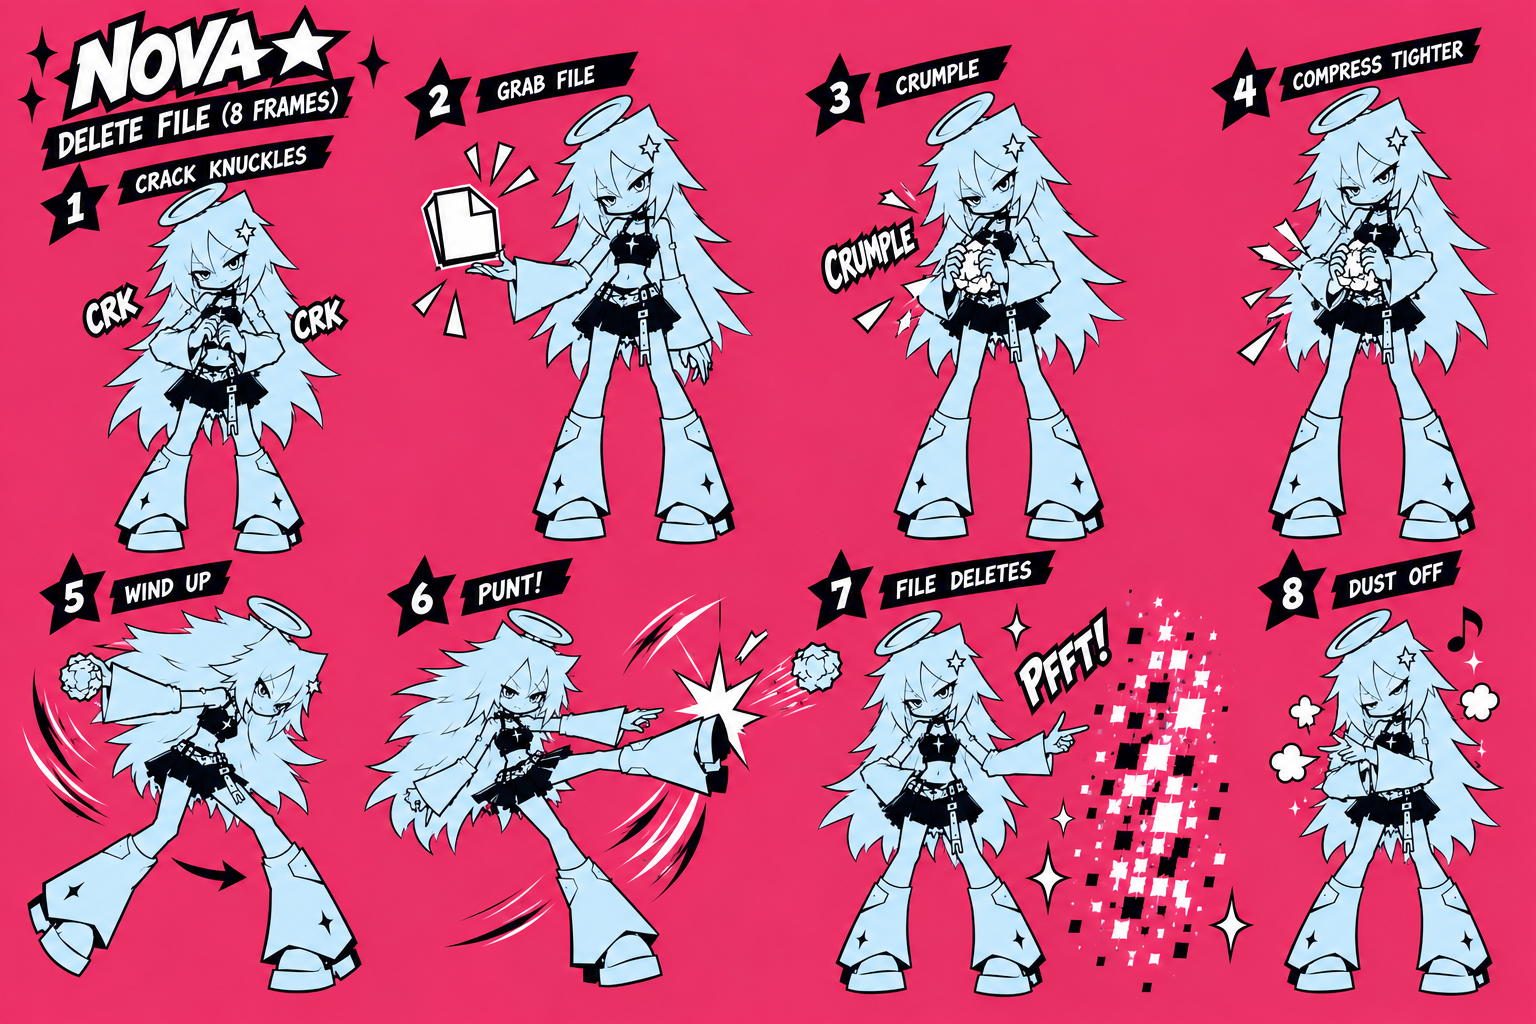
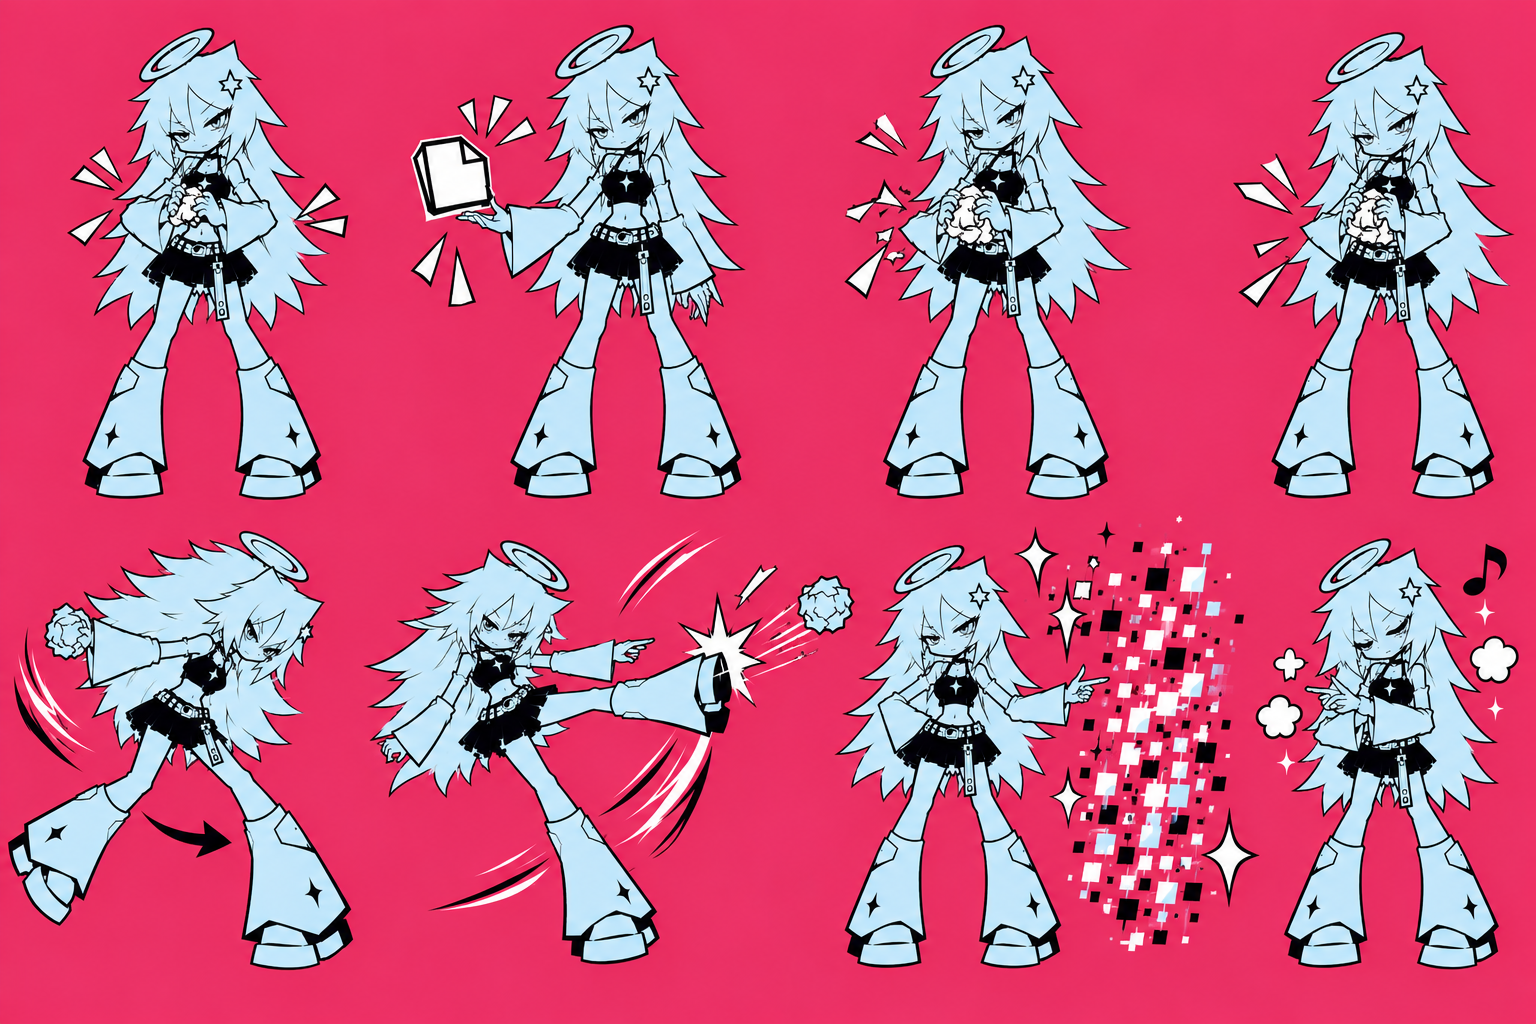
Use the artist's fixed delete-file sheet for all 8 frames
The redrawn sheet has every frame at the same size and no labels, so the
earlier fixes for it (badge paint-outs, the separate crack-knuckles
redraw) are gone. The burst is still cut alone and laid over frame 7.

Claude-Session: https://claude.ai/code/session_012ykRabq4tZUiRWfhMVtcWH

diff --git a/nova/src/frames/packs.js b/nova/src/frames/packs.js
@@ -1049,59 +1049,59 @@ window.NovaFramePacks = {
   "frames": [
    {
     "src": "frames/delete/01.png",
-    "x": 6.151,
-    "y": 4.0,
-    "w": 38.042,
-    "h": 74.391
+    "x": 2.901,
+    "y": 4.155,
+    "w": 44.524,
+    "h": 74.31
    },
    {
     "src": "frames/delete/02.png",
-    "x": -8.817,
-    "y": 4.483,
-    "w": 56.143,
-    "h": 73.517
+    "x": -7.027,
+    "y": 3.69,
+    "w": 52.746,
+    "h": 74.621
    },
    {
     "src": "frames/delete/03.png",
-    "x": -0.774,
-    "y": 4.0,
-    "w": 50.191,
-    "h": 73.517
+    "x": 2.746,
+    "y": 3.845,
+    "w": 45.61,
+    "h": 74.621
    },
    {
     "src": "frames/delete/04.png",
-    "x": 3.891,
-    "y": 3.196,
-    "w": 43.113,
-    "h": 74.483
+    "x": 2.126,
+    "y": 4.931,
+    "w": 44.524,
+    "h": 73.379
    },
    {
     "src": "frames/delete/05.png",
-    "x": -6.471,
-    "y": 1.35,
-    "w": 65.483,
-    "h": 76.65
+    "x": -2.239,
+    "y": 2.199,
+    "w": 60.195,
+    "h": 76.315
    },
    {
     "src": "frames/delete/06.png",
-    "x": -15.934,
-    "y": 1.35,
-    "w": 91.79,
-    "h": 75.514
+    "x": -12.528,
+    "y": 2.542,
+    "w": 85.233,
+    "h": 75.115
    },
    {
     "src": "frames/delete/07.png",
-    "x": -0.225,
-    "y": 0.215,
-    "w": 83.652,
-    "h": 78.353
+    "x": 3.249,
+    "y": -0.373,
+    "w": 73.743,
+    "h": 78.716
    },
    {
     "src": "frames/delete/08.png",
-    "x": 1.289,
-    "y": 3.432,
-    "w": 45.611,
-    "h": 74.946
+    "x": 1.877,
+    "y": 3.4,
+    "w": 46.304,
+    "h": 75.115
    }
   ],
   "durations": [

diff --git a/nova/art/frames/make_packs.py b/nova/art/frames/make_packs.py
@@ -21,17 +21,11 @@ SIZE = {'walk': 1.0, 'run': 1.0, 'jump': 1.05, 'bored': 1.4, 'drag': 1.45, 'slee
         # sitting: as big as in her idle sheet, by the size of her crop top
         'sit': ('like', 'idle'),
         'paint': ('like', 'idle'), 'clean': ('like', 'idle'), 'carry': 'stand', 'search': ('like', 'idle'),
-        'delete0': ('stand', [0]), 'delete1': ('stand', [1, 2, 3]), 'delete2': ('stand', [2, 3]),   # (by her standing frames)
+        'delete1': ('stand', [0, 1, 2, 3]), 'delete2': ('stand', [2, 3]),   # (by her standing frames)
         'shrug': 'stand', 'angry': 'stand', 'shy': 'stand', 'dance': 'stand', 'dizzy': ('like', 'idle'), 'cheer': ('like', 'idle')}
-ERASE = {'delete0': [[(0, 0), (874, 0), (874, 1024), (0, 1024)], [(1178, 0), (1536, 0), (1536, 1024), (1178, 1024)]],   # (the corrected frame 1 only)
-         'drag': [[(20, 149), (480, 77), (480, 122), (20, 194)]],   # (its title badge touches a frame)
-         # (badges close to her halo, painted out along their bottom edge)
-         'delete1': [[(0, 0), (400, 0), (400, 132), (0, 160)], [(28, 158), (112, 158), (112, 242), (28, 242)],
-                     [(100, 165), (322, 128), (322, 165), (217, 177), (110, 207)]],
-         'delete2': [[(798, 546), (886, 546), (886, 632), (798, 632)], [(878, 560), (1068, 543), (1068, 576), (927, 601), (878, 611)],
-                     [(1250, 548), (1326, 548), (1326, 633), (1250, 633)], [(1324, 567), (1470, 546), (1462, 591), (1377, 604), (1324, 613)]]}
-FILE = {'delete0': 'crack', 'delete1': 'delete', 'delete2': 'delete'}   # sheets cut from the same picture
-BURST = dict(sheet='delete2', over=2, boxes=[(1085, 588, 1262, 1000)], keep=[])
+ERASE = {'drag': [[(20, 149), (480, 77), (480, 122), (20, 194)]]}   # (its title badge touches a frame)
+FILE = {'delete1': 'delete', 'delete2': 'delete'}   # sheets cut from the same picture
+BURST = dict(sheet='delete2', over=2, boxes=[(1015, 512, 1276, 1000)], keep=[])
 # how to cut each sheet (see sheets.cut_sheet): the rows between header and captions, how she stands
 CUT = {
   'idle':   dict(band=(205, 882), ground='feet', parts=False),            # (its arrows are the artist's notes)
@@ -45,15 +39,9 @@ CUT = {
   'clean': dict(band=(232, 945), ground='feet', parts_above=0.75, logo=(0, 0, 1448, 248), drop=[(73, 245, 137, 309), (418, 245, 482, 309), (788, 245, 852, 309), (1185, 245, 1249, 309)]),
   'carry': dict(band=(250, 966), ground='feet', parts_above=0.75, logo=(0, 0, 690, 252), drop=[(790, 15, 1448, 295), (369, 514, 471, 598), (714, 514, 816, 598), (1064, 514, 1166, 598), (49, 276, 117, 344), (414, 276, 482, 344), (764, 276, 832, 344), (1129, 277, 1197, 345)]),
   'search': dict(band=(310, 930), ground='feet', parts_above=0.55, logo=(0, 0, 1160, 305), drop=[(1235, 35, 1448, 235), (43, 318, 107, 382), (278, 323, 342, 387), (523, 313, 587, 377), (728, 313, 792, 377), (973, 308, 1037, 372), (1198, 303, 1262, 367)]),
-  # delete: two rows drawn at different sizes, cut as two sheets; frame 7 is only the burst, so it's laid over the punt
-  # delete: two rows, each its own cut. Frame 7's burst is drawn apart from her, so it's cut alone and laid over her
-  # frame 1, redrawn: the 'corrected frame 1' beside frame 2 on its sheet
-  'delete0': dict(band=(282, 856), ground='feet', parts_above=0.75, logo=(0, 0, 0, 0),   # (its measuring arrow and dashed lines, around her)
-                  whiteout=[(884, 286, 902, 438), (884, 532, 902, 858), (872, 284, 932, 312), (958, 295, 993, 305), (1010, 284, 1180, 312), (872, 849, 1180, 860)]),
-  'delete1': dict(band=(0, 548), ground='feet', parts_above=0.75, logo=(0, 0, 0, 0),
-                  drop=[(402, 55, 474, 142), (473, 49, 640, 116), (803, 51, 873, 139), (873, 43, 1014, 111), (1209, 45, 1279, 133), (1277, 25, 1484, 104)]),
-  'delete2': dict(band=(552, 1000), ground='feet', parts_above=0.75, logo=(0, 0, 0, 0),
-                  drop=[(30, 545, 292, 640), (385, 548, 578, 642), (770, 694, 826, 726), (1085, 588, 1262, 1000)]),
+  # delete: two rows of 4; frame 7's burst is drawn apart from her, so it's cut alone and laid over her
+  'delete1': dict(band=(0, 507), ground='feet', parts_above=0.75, logo=(0, 0, 0, 0)),
+  'delete2': dict(band=(510, 1024), ground='feet', parts_above=0.75, logo=(0, 0, 0, 0), drop=[(1015, 512, 1276, 1000)]),
   # reactions: their titles, notes, number circles and loop arrows are left out with drop boxes
   'shrug': {'band': (270, 925), 'ground': 'feet', 'parts_above': 0.55, 'logo': (0, 0, 820, 275), 'drop': [(800, 20, 1110, 255), (1170, 40, 1448, 235), (48, 273, 116, 341), (401, 266, 469, 334), (761, 266, 829, 334), (1106, 266, 1174, 334)]},
   'angry': {'band': (195, 897), 'ground': 'feet', 'logo': (0, 0, 640, 235), 'drop': [(600, 40, 1448, 205)]},
@@ -97,7 +85,7 @@ PACKS = {
   'folder':    dict(sheet='carry', frames=range(4), fps=6, loop=True),
   'search':    dict(sheet='search', frames=range(5), durations=[300, 300, 500, 500, 400], loop=True),
   'found':     dict(sheet='search', frames=[5], fps=1, loop=True),
-  'delete':    dict(sheet='delete1', frames=[('delete0', 0), ('delete1', 1), ('delete1', 2), ('delete1', 3), ('delete2', 0), ('delete2', 1), ('delete2', 'burst'), ('delete2', 3)],
+  'delete':    dict(sheet='delete1', frames=[('delete1', 0), ('delete1', 1), ('delete1', 2), ('delete1', 3), ('delete2', 0), ('delete2', 1), ('delete2', 'burst'), ('delete2', 3)],
                     durations=[420, 380, 330, 330, 260, 260, 650, 900], loop=False),
   'sit':       dict(sheet='sit', frames=range(4), durations=[1500, 450, 650, 900], loop=True, anchor='seat'),
 }
